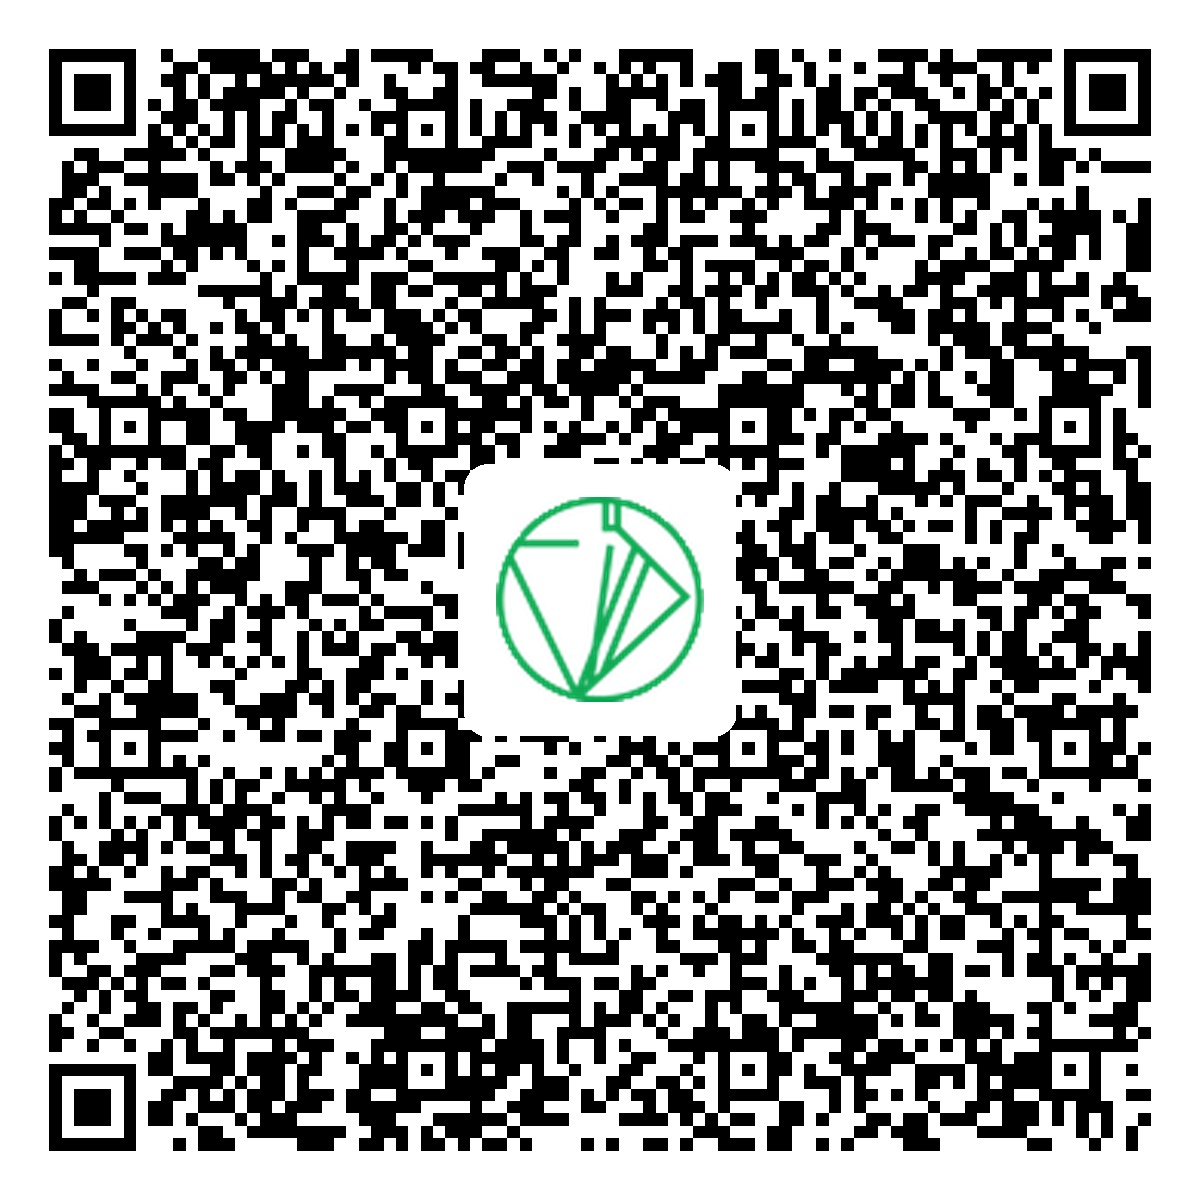
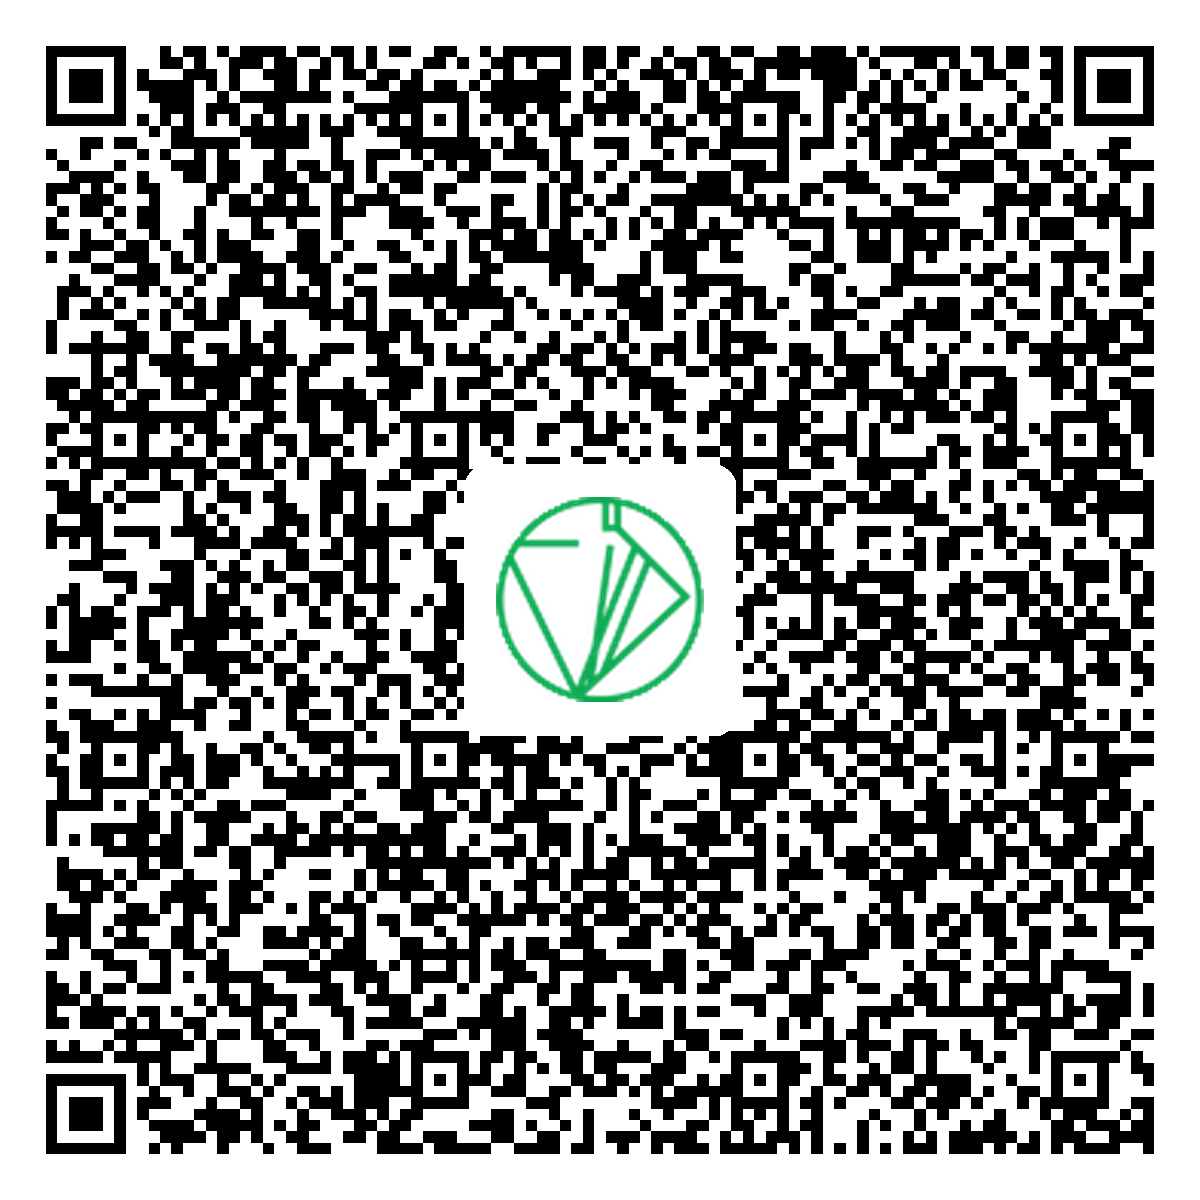
Add profile photo to contact card

diff --git a/docs/pwr/sw.js b/docs/pwr/sw.js
@@ -1,4 +1,4 @@
-const CACHE_NAME = "pwr-contact-v7";
+const CACHE_NAME = "pwr-contact-v8";
 
 const FILES = [
   "/pwr/",
@@ -6,6 +6,7 @@ const FILES = [
   "/pwr/pwr-icon-192.png",
   "/pwr/pwr-icon-512.png",
   "/pwr/pwr.vcf",
+  "/pwr/profile.jpg",
   "/pwr/vcard-url.png",
   "/pwr/vcard.png"
 ];
